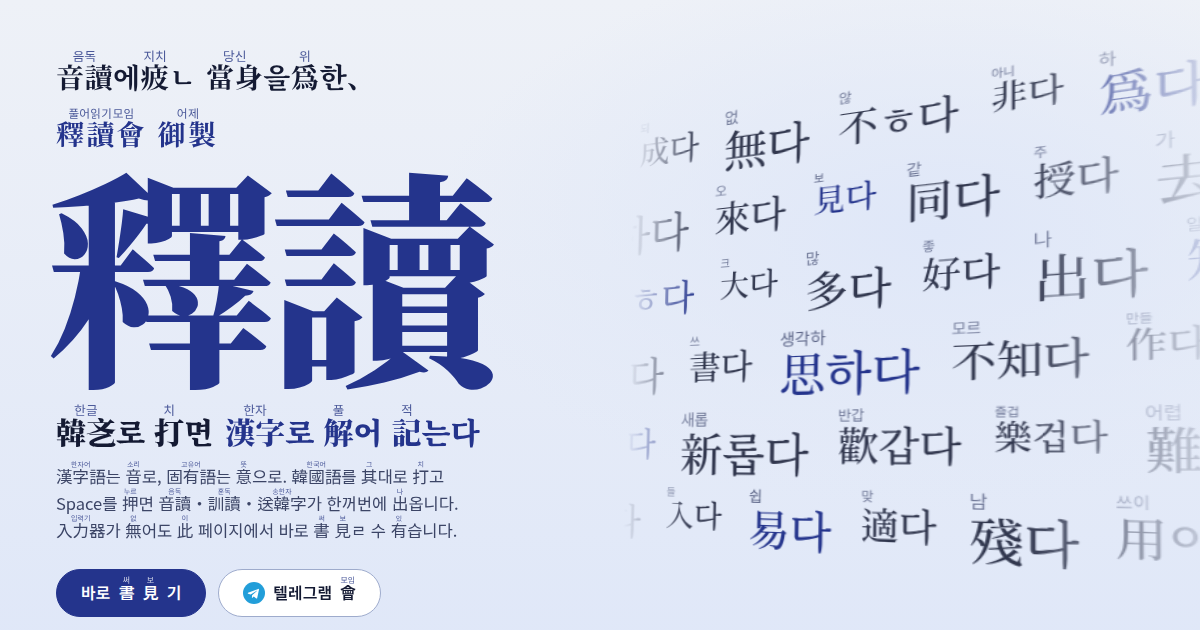
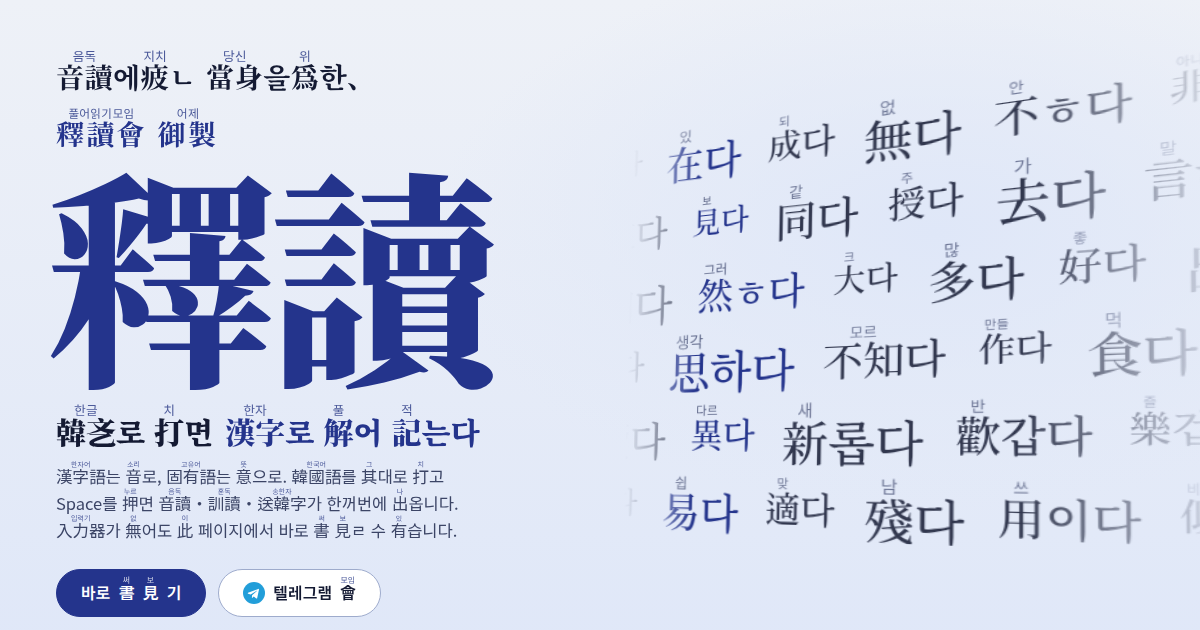
fix(web): put each wall word's ruby over its Hanja alone

diff --git a/web/src/ui/Hero.svelte b/web/src/ui/Hero.svelte
@@ -1,15 +1,16 @@
 <script>
   import { t, r, plain } from '../lib/i18n.svelte.js'
 
-  // The wall of 訓讀 verbs, after the third 釋讀會 poster: the written form with
-  // its stem above. All are dictionary entries attested in the group's chat.
+  // The wall of 訓讀 verbs, after the third 釋讀會 poster: each Hanja with its
+  // own reading as ruby, then the 送韓字. All are dictionary entries attested
+  // in the group's chat.
   const WALL = [
-    ['爲다', '하'], ['在다', '있'], ['成다', '되'], ['無다', '없'], ['不ㅎ다', '않'], ['非다', '아니'],
-    ['見다', '보'], ['同다', '같'], ['授다', '주'], ['去다', '가'], ['言하다', '말하'], ['來다', '오'],
-    ['知다', '알'], ['然ㅎ다', '그렇'], ['大다', '크'], ['多다', '많'], ['好다', '좋'], ['出다', '나'],
-    ['思하다', '생각하'], ['不知다', '모르'], ['作다', '만들'], ['食다', '먹'], ['何떻다', '어떻'], ['書다', '쓰'],
-    ['讀다', '읽'], ['異다', '다르'], ['新롭다', '새롭'], ['歡갑다', '반갑'], ['樂겁다', '즐겁'], ['難다', '어렵'],
-    ['易다', '쉽'], ['適다', '맞'], ['殘다', '남'], ['用이다', '쓰이'], ['似하다', '비슷하'], ['入다', '들'],
+    ['爲', '다', '하'], ['在', '다', '있'], ['成', '다', '되'], ['無', '다', '없'], ['不', 'ㅎ다', '안'], ['非', '다', '아니'],
+    ['見', '다', '보'], ['同', '다', '같'], ['授', '다', '주'], ['去', '다', '가'], ['言', '하다', '말'], ['來', '다', '오'],
+    ['知', '다', '알'], ['然', 'ㅎ다', '그러'], ['大', '다', '크'], ['多', '다', '많'], ['好', '다', '좋'], ['出', '다', '나'],
+    ['思', '하다', '생각'], ['不知', '다', '모르'], ['作', '다', '만들'], ['食', '다', '먹'], ['何', '떻다', '어'], ['書', '다', '쓰'],
+    ['讀', '다', '읽'], ['異', '다', '다르'], ['新', '롭다', '새'], ['歡', '갑다', '반'], ['樂', '겁다', '즐'], ['難', '다', '어렵'],
+    ['易', '다', '쉽'], ['適', '다', '맞'], ['殘', '다', '남'], ['用', '이다', '쓰'], ['似', '하다', '비슷'], ['入', '다', '들'],
   ]
   const rows = Array.from({ length: 6 }, (_, r) => WALL.slice(r * 6, r * 6 + 6))
 </script>
@@ -41,10 +42,8 @@
   <div class="wall" aria-hidden="true">
     {#each rows as row, r}
       <div class="row" style:--d="{r % 2 ? -1 : 1}" style:--i={r}>
-        {#each [...row, ...row] as [w, reading], c}
-          <span class="tile" style:--size="{1 + ((r * 7 + c * 3) % 5) * 0.12}em">
-            <small>{reading}</small>{w}
-          </span>
+        {#each [...row, ...row] as [han, okuri, reading], c}
+          <span class="tile" style:--size="{1 + ((r * 7 + c * 3) % 5) * 0.12}em"><ruby>{han}<rt>{reading}</rt></ruby>{okuri}</span>
         {/each}
       </div>
     {/each}
@@ -141,15 +140,13 @@
     animation-direction: reverse;
   }
   .tile {
-    display: inline-flex;
-    flex-direction: column;
-    align-items: flex-start;
+    display: inline-block;
     font-size: var(--size);
     color: var(--c-ink);
     white-space: nowrap;
     opacity: 0.86;
   }
-  .tile small {
+  .tile rt {
     font: 500 0.36em/1.3 var(--f-sans);
     color: var(--c-muted);
   }
